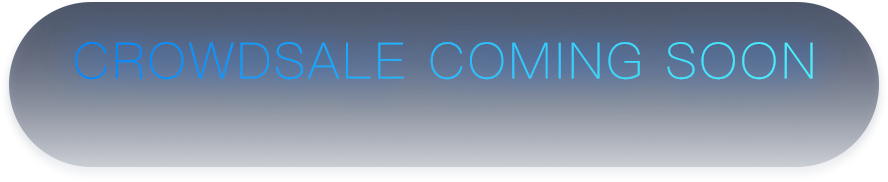
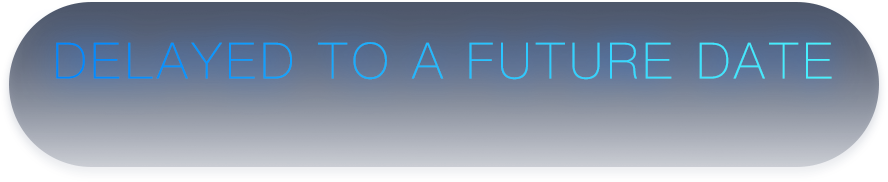
change home header

Changed region(s): [[0.0608, 0.2198, 0.9426, 0.4396]]

diff --git a/src/components/Navigation/Navigation.js b/src/components/Navigation/Navigation.js
@@ -64,7 +64,7 @@ class Navigation extends Component {
                     <div className={styles.navHeaderUl} id="navbar-menu" style={{display: 'none'}}>
                         <ul>
                             <li><IndexLink to="/">首页</IndexLink></li>
-                            {/* <li><Link to="/crowdsale">ICO</Link></li> */}
+                             <li><Link to="/ico">ICO</Link></li>
                             <li><a href={config.app.files.WhitepaperCH} target="_blank">白皮书</a></li>
                             <li><a href={config.app.files.YellowpaperCH} target="_blank">黄皮书</a></li>
                             <li><a href={config.app.files.CommercialCH} target="_blank">商业白皮书</a></li>
@@ -75,7 +75,7 @@ class Navigation extends Component {
                     <div className={styles.navHeaderUl} id="navbar-menu">
                         <ul>
                             <li><IndexLink to="/">首页</IndexLink></li>
-                            {/* <li><Link to="/crowdsale">ICO</Link></li> */}
+                             <li><Link to="/ico">ICO</Link></li>
                             <li>
                                 <div className={styles.navDropdown}>
                                     <a>文档</a>
@@ -106,7 +106,7 @@ class Navigation extends Component {
                     <div className={styles.navHeaderUl} id="navbar-menu" style={{display: 'none'}}>
                         <ul>
                             <li><IndexLink to="/">Home</IndexLink></li>
-                            {/* <li><Link to="/crowdsale">ICO</Link></li> */}
+                             <li><Link to="/ico">ICO</Link></li>
                             <li><a href={config.app.files.WhitepaperEN} target="_blank">Whitepaper</a></li>
                             <li><a href={config.app.files.YellowpaperEN} target="_blank">Yellowpaper</a></li>
                             <li><a href={config.app.files.CommercialEN} target="_blank">Commercialpaper</a></li>
@@ -117,7 +117,7 @@ class Navigation extends Component {
                     <div className={styles.navHeaderUl} id="navbar-menu">
                         <ul>
                             <li><IndexLink to="/">Home</IndexLink></li>
-                            {/* <li><Link to="/crowdsale">ICO</Link></li> */}
+                             <li><Link to="/ico">ICO</Link></li>
                             <li>
                                 <div className={styles.navDropdown}>
                                     <a>Docs</a>

diff --git a/src/containers/Home/utils/homeUl.js b/src/containers/Home/utils/homeUl.js
@@ -10,7 +10,7 @@ export function homeUl(styles, style) {
       <div className={styles} id="navbar-menu" style={style}>
           <ul>
               <li><IndexLink to="/">首页</IndexLink></li>
-              {/* <li><Link to="/crowdsale">ICO</Link></li> */}
+               <li><Link to="/ico">ICO</Link></li>
               <li><a href={config.app.files.WhitepaperCH} target="_blank">白皮书</a></li>
               <li><a href={config.app.files.YellowpaperCH} target="_blank">黄皮书</a></li>
               <li><a href={config.app.files.CommercialCH} target="_blank">商业白皮书</a></li>
@@ -25,7 +25,7 @@ export function homePcUl(styles, style, homeDropdown, content) {
         <div className={styles} id="navbar-menu" style={style}>
             <ul>
                 <li><IndexLink to="/">首页</IndexLink></li>
-                {/* <li><Link to="/crowdsale">ICO</Link></li> */}
+                 <li><Link to="/ico">ICO</Link></li>
                 <li>
                     <div className={homeDropdown}>
                         <a>文档</a>
@@ -48,7 +48,7 @@ export function homeUlEn(styles, style) {
         <div className={styles} id="navbar-menu" style={style}>
             <ul>
                 <li><IndexLink to="/">Home</IndexLink></li>
-                {/* <li><Link to="/crowdsale">ICO</Link></li> */}
+                 <li><Link to="/ico">ICO</Link></li>
                 <li><a href={config.app.files.WhitepaperCH} target="_blank">Whitepaper</a></li>
                 <li><a href={config.app.files.YellowpaperCH} target="_blank">Yellowpaper</a></li>
                 <li><a href={config.app.files.CommercialCH} target="_blank">Commercialpaper</a></li>
@@ -63,7 +63,7 @@ export function homePcUlEn(styles, style, homeDropdown, content) {
     <div className={styles} id="navbar-menu" style={style}>
         <ul>
             <li><IndexLink to="/">Home</IndexLink></li>
-            {/* <li><Link to="/crowdsale">ICO</Link></li> */}
+             <li><Link to="/ico">ICO</Link></li>
             <li>
                 <div className={homeDropdown}>
                     <a>Docs</a>

diff --git a/src/containers/Crowdsale/IcoNotice.js b/src/containers/Crowdsale/IcoNotice.js
@@ -1,0 +1,23 @@
+import React, { Component } from 'react';
+
+class IcoNotice extends Component {
+    render() {
+      const styles = require('./ico.scss');
+
+      return (
+          <div className={styles.ico + ' container'}>
+              <strong>NOTICE:</strong>
+              <hr/>
+              <p>1.THE ICO PLANNED ON SEP 6TH WILL BE DELAYED TO A FUTURE DATE (STILL TO BE CONFIRMED WHEN).</p>
+              <p>2.DO NOT VISIT ANY OTHER WEBSITES CLAIMING TO BE WANCHAIN.<br/>
+                 {'   '}THE OFFICIAL WANCHAIN WEBSITE IS**WANCHAIN.ORG** NOT .INFO, .COM .IO .NET -- ONLY .ORG IS REAL</p>
+              <p>3.WANCHAIN.CO IS A FAKE WEBSITE, DO NOT VISIT THIS SITE</p>
+              <p>4.DO NOT CLICK ON ANY LINK SENT FROM SLACKBOT</p>
+              <p>5.CURRENTLY THERE IS NO ONGOING ICO. WE WILL NOT DEMAND YOU SEND ETH TO US.</p>
+          </div>
+      );
+    }
+}
+
+export default IcoNotice;
+

diff --git a/src/routes.js b/src/routes.js
@@ -8,7 +8,7 @@ import {
     Login,
     // LoginSuccess,
     NotFound,
-    // Crowdsale,
+    IcoNotice,
   } from 'containers';
 
 import Table from './containers/LoginSuccess/Table';
@@ -51,7 +51,7 @@ export default () => {
 
       { /* Routes */ }
       <Route path="about" component={About}/>
-      {/* <Route path="crowdsale" component={Crowdsale}/> */}
+       <Route path="ico" component={IcoNotice}/>
 
       <Route path="login" component={Login}/>
       { /* <Route path="pagination" component={Pagination}/> */ }

diff --git a/src/containers/App/App.js b/src/containers/App/App.js
@@ -95,7 +95,7 @@ class App extends Component {
           {this.props.children}
         </div>
         {/* <Carousel/> */}
-        <Footer/>
+        {transition.pathname !== '/ico' && <Footer/>}
       </div>
     );
   }

diff --git a/src/containers/index.js b/src/containers/index.js
@@ -8,3 +8,4 @@ export Table from './LoginSuccess/Table';
 export NotFound from './NotFound/NotFound';
 
 export Crowdsale from './Crowdsale/Crowdsale';
+export IcoNotice from './Crowdsale/IcoNotice';

diff --git a/src/containers/Crowdsale/ico.scss b/src/containers/Crowdsale/ico.scss
@@ -1,0 +1,13 @@
+.ico{
+  margin-top: 60px;
+  margin-bottom: 60px;
+  hr{
+    margin: 10px 0;
+  }
+  p{
+    margin-top: 10px;
+    span{
+      line-height: 30px;
+    }
+  }
+}
